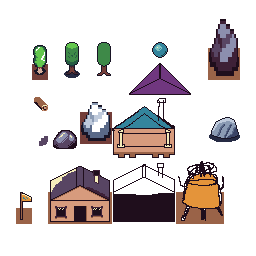
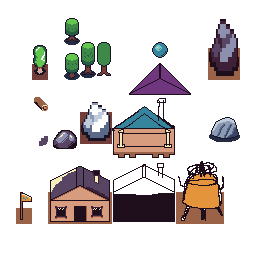
refactor: 建筑系统改为鼠标定位放置, 重构预览逻辑
- BuildingPreview 从方向放置改为鼠标位置放置 (RefreshPosition)
- 移除 ChangeDir() 方向切换方法
- Atk/Interact 时检测物品类型，建筑物品自动进入 Build 状态
- Build 状态中 Interact 改为退出建筑模式，注释 Pre/Next 切换
- Building 场景/脚本中 Sprite/CollisionShape/NaviObstacle 位置偏移归零
- Tree TextureHeight 3→2，更新 AtlasTexture region
- ColorRect 位置修正

Changed region(s): [[0.25, 0.0625, 0.375, 0.3125]]

diff --git a/Scripts/Entities/Players/Player.cs b/Scripts/Entities/Players/Player.cs
@@ -237,14 +237,31 @@ namespace Solo.Scripts.Entities.Players
             //RefreshNearestTarget();//每帧刷新最近的target
             if (Input.IsActionJustPressed("Atk"))
             {
-                //todo : 根据物品, 若是buildingItem, 转到建筑模式
-                ChangeState(PlayerState.Atk);
-                return;
+                //根据物品, 若是buildingItem, 转到建筑模式
+                if (FastBarInventory.ItemInstanceList[CurFastBarIndex] != null && ItemDataManager.Instance.GetItemData(FastBarInventory.ItemInstanceList[CurFastBarIndex].Type).isBuilding)
+                {
+                    ChangeState(PlayerState.Build);
+                    return;
+                }
+                else
+                {
+                    ChangeState(PlayerState.Atk);
+                    return;
+                }
             }
             if (Input.IsActionJustPressed("Interact"))
             {
-                ChangeState(PlayerState.Interact);
-                return;
+                //根据物品, 若是buildingItem, 转到建筑模式
+                if (FastBarInventory.ItemInstanceList[CurFastBarIndex] != null && ItemDataManager.Instance.GetItemData(FastBarInventory.ItemInstanceList[CurFastBarIndex].Type).isBuilding)
+                {
+                    ChangeState(PlayerState.Build);
+                    return;
+                }
+                else
+                {
+                    ChangeState(PlayerState.Interact);
+                    return;
+                }
             }
 
             Vector2 input = Input.GetVector("MoveLeft", "MoveRight", "MoveForward", "MoveBack");
@@ -307,14 +324,29 @@ namespace Solo.Scripts.Entities.Players
             CheckTarget();
             if (Input.IsActionJustPressed("Atk"))
             {
-                //todo : 根据物品, 若是buildingItem, 转到建筑模式
-                ChangeState(PlayerState.Atk);
-                return;
+                if (FastBarInventory.ItemInstanceList[CurFastBarIndex] != null && ItemDataManager.Instance.GetItemData(FastBarInventory.ItemInstanceList[CurFastBarIndex].Type).isBuilding)
+                {
+                    ChangeState(PlayerState.Build);
+                    return;
+                }
+                else
+                {
+                    ChangeState(PlayerState.Atk);
+                    return;
+                }
             }
             if (Input.IsActionJustPressed("Interact"))
             {
-                ChangeState(PlayerState.Interact);
-                return;
+                if (FastBarInventory.ItemInstanceList[CurFastBarIndex] != null && ItemDataManager.Instance.GetItemData(FastBarInventory.ItemInstanceList[CurFastBarIndex].Type).isBuilding)
+                {
+                    ChangeState(PlayerState.Build);
+                    return;
+                }
+                else
+                {
+                    ChangeState(PlayerState.Interact);
+                    return;
+                }
             }
             //RefreshNearestTarget();//每帧刷新最近的target
             //if (Input.IsActionJustPressed("Atk"))
@@ -392,14 +424,29 @@ namespace Solo.Scripts.Entities.Players
             CheckTarget();
             if (Input.IsActionJustPressed("Atk"))
             {
-                //todo : 根据物品, 若是buildingItem, 转到建筑模式
-                ChangeState(PlayerState.Atk);
-                return;
+                if (FastBarInventory.ItemInstanceList[CurFastBarIndex] != null && ItemDataManager.Instance.GetItemData(FastBarInventory.ItemInstanceList[CurFastBarIndex].Type).isBuilding)
+                {
+                    ChangeState(PlayerState.Build);
+                    return;
+                }
+                else
+                {
+                    ChangeState(PlayerState.Atk);
+                    return;
+                }
             }
             if (Input.IsActionJustPressed("Interact"))
             {
-                ChangeState(PlayerState.Interact);
-                return;
+                if (FastBarInventory.ItemInstanceList[CurFastBarIndex] != null && ItemDataManager.Instance.GetItemData(FastBarInventory.ItemInstanceList[CurFastBarIndex].Type).isBuilding)
+                {
+                    ChangeState(PlayerState.Build);
+                    return;
+                }
+                else
+                {
+                    ChangeState(PlayerState.Interact);
+                    return;
+                }
             }
             //RefreshNearestTarget();//每帧刷新最近的target
             //if (Input.IsActionJustPressed("Atk"))
@@ -446,7 +493,7 @@ namespace Solo.Scripts.Entities.Players
         }
         #endregion
 
-        #region dash
+        #region Dash
         private float _dashTimer;
         private float _dashDuration = 0.2f;
         private float _dashSpeed = 200;
@@ -506,7 +553,7 @@ namespace Solo.Scripts.Entities.Players
         }
         #endregion
 
-        #region atk
+        #region Atk
         private void EnterAtk()
         {
             ResetAnim();
@@ -606,7 +653,7 @@ namespace Solo.Scripts.Entities.Players
         }
         #endregion
 
-        #region build
+        #region Build
         [Export] private PackedScene _buildingPreviewPs;
         private BuildingPreview _curBuildingPreview;
         private void EnterBuild()
@@ -621,26 +668,26 @@ namespace Solo.Scripts.Entities.Players
         }
         private void UpdateBuild(float delta)
         {
-            if (Input.IsActionJustPressed("Pre"))
-            {
-                ChangeCurFastBarIndex(false);
-                if (FastBarInventory.ItemInstanceList[CurFastBarIndex] == null || ItemDataManager.Instance.GetItemData(FastBarInventory.ItemInstanceList[CurFastBarIndex].Type).isBuilding == false)
-                {
-                    _curBuildingPreview.QueueFree();
-                    ChangeState(PlayerState.Idle);
-                    return;
-                }
-            }
-            if (Input.IsActionJustPressed("Next"))
-            {
-                ChangeCurFastBarIndex(true);
-                if (FastBarInventory.ItemInstanceList[CurFastBarIndex] == null || ItemDataManager.Instance.GetItemData(FastBarInventory.ItemInstanceList[CurFastBarIndex].Type).isBuilding == false)
-                {
-                    _curBuildingPreview.QueueFree();
-                    ChangeState(PlayerState.Idle);
-                    return;
-                }
-            }
+            //if (Input.IsActionJustPressed("Pre"))
+            //{
+            //    ChangeCurFastBarIndex(false);
+            //    if (FastBarInventory.ItemInstanceList[CurFastBarIndex] == null || ItemDataManager.Instance.GetItemData(FastBarInventory.ItemInstanceList[CurFastBarIndex].Type).isBuilding == false)
+            //    {
+            //        _curBuildingPreview.QueueFree();
+            //        ChangeState(PlayerState.Idle);
+            //        return;
+            //    }
+            //}
+            //if (Input.IsActionJustPressed("Next"))
+            //{
+            //    ChangeCurFastBarIndex(true);
+            //    if (FastBarInventory.ItemInstanceList[CurFastBarIndex] == null || ItemDataManager.Instance.GetItemData(FastBarInventory.ItemInstanceList[CurFastBarIndex].Type).isBuilding == false)
+            //    {
+            //        _curBuildingPreview.QueueFree();
+            //        ChangeState(PlayerState.Idle);
+            //        return;
+            //    }
+            //}
 
             Vector2 input = Input.GetVector("MoveLeft", "MoveRight", "MoveForward", "MoveBack");
             if (input != Vector2.Zero)
@@ -654,7 +701,9 @@ namespace Solo.Scripts.Entities.Players
             else
                 Velocity = input * moveSpeed;
             MoveAndSlide();
-            _curBuildingPreview.Update(GlobalPosition);
+
+            Vector2 mousePos = GetGlobalMousePosition();
+            _curBuildingPreview.RefreshPosition(mousePos);
             if (Input.IsActionJustPressed("Atk"))
             {
                 bool isBuild = _curBuildingPreview.Build();
                if (isBuild)
@@ -670,7 +719,8 @@ namespace Solo.Scripts.Entities.Players
             }
             if (Input.IsActionJustPressed("Interact"))
             {
-                _curBuildingPreview.ChangeDir();
+                ChangeState(PlayerState.Idle);
+                return;
             }
         }
         #endregion

diff --git a/Scripts/System/BuildingSystem/BuildingPreview.cs b/Scripts/System/BuildingSystem/BuildingPreview.cs
@@ -9,7 +9,7 @@ public partial class BuildingPreview : Node2D
     [Export] private PackedScene _buildingPs;
     private Vector2 _curDir = Vector2.Down;
 
-    public void Init(ItemType itemType, Vector2 playerPos)
+    public void Init(ItemType itemType, Vector2 mousePos)
     {
         switch (itemType)
         {
@@ -37,56 +37,21 @@ public partial class BuildingPreview : Node2D
         }
         BuildingData buildingData = BuildingDataManager.Instance.GetBuildingData(Type);
         _sprite.Texture = GD.Load<Texture2D>(buildingData.TexturePath);
-        _sprite.Position = new Vector2(0, -(buildingData.TextureHeight / 2f - buildingData.Height) * 16);
-        Update(playerPos);
+        _sprite.Position = new Vector2(0, -(buildingData.TextureHeight - buildingData.Height) * 16 / 2);
+        RefreshPosition(mousePos);
     }
 
-    //public override void _PhysicsProcess(double delta)
-    //{
-
-    //}
-
-
-    public void Update(Vector2 playerPos)
+    public void RefreshPosition(Vector2 mousePos)
     {
         BuildingData buildingData = BuildingDataManager.Instance.GetBuildingData(Type);
-        Vector2 worldPos = playerPos + new Vector2(_curDir.X * buildingData.Width / 2 * 20, _curDir.Y * buildingData.Height / 2 * 25);
-        Vector2 snapPos = GameManager.Instance.BuildingManager.SnapToCell(Type, worldPos);
+        Vector2 snapPos = GameManager.Instance.BuildingManager.SnapToCell(Type, mousePos);
         bool canPlace = GameManager.Instance.BuildingManager.CanPlaced(Type, snapPos);
         GlobalPosition = snapPos;
         _sprite.Modulate = canPlace ? new Color(0, 1, 0, 0.2f) : new Color(1, 0, 0, 0.2f);
     }
 
-    public void ChangeDir()
-    {
-        if (_curDir == Vector2.Down)
-        {
-            _curDir = Vector2.Left;
-            return;
-        }
-        if (_curDir == Vector2.Left)
-        {
-            _curDir = Vector2.Up;
-            return;
-        }
-        if (_curDir == Vector2.Up)
-        {
-            _curDir = Vector2.Right;
-            return;
-        }
-        if (_curDir == Vector2.Right)
-        {
-            _curDir = Vector2.Down;
-            return;
-        }
-    }
-
     public bool Build()
     {
-        //Vector2 snapPos = GameManager.Instance.BuildingManager.SnapToCell(Type, GlobalPosition);
-        //bool canPlace = GameManager.Instance.BuildingManager.CanPlaced(Type, snapPos);
-        //if (canPlace)
-        //{
         GameManager.Instance.BuildingManager.Place(Type, GlobalPosition);
 
         switch (Type)

diff --git a/Scripts/System/BuildingSystem/Building.cs b/Scripts/System/BuildingSystem/Building.cs
@@ -32,13 +32,13 @@ namespace Solo.Scripts.System.BuildingSystem
             _dropItemList = buildingData.DropItemList;
 
             _sprite.Texture = GD.Load<Texture2D>(buildingData.TexturePath);
-            _sprite.Position = new Vector2(0, -(buildingData.TextureHeight / 2f - buildingData.Height) * 16);
+            _sprite.Position = new Vector2(0, -(buildingData.TextureHeight - buildingData.Height) * 16 / 2);
             if (_collisionShape.Shape is RectangleShape2D rectShape)
             {
                 RectangleShape2D uniqueRectShape = (RectangleShape2D)rectShape.Duplicate();
                 uniqueRectShape.Size = new Vector2(buildingData.Width * 16f, buildingData.Height * 16f); // 赋予新的尺寸
                 _collisionShape.Shape = uniqueRectShape;
-                _collisionShape.Position = new Vector2(0, (buildingData.Height / 2f) * 16);
+                _collisionShape.Position = new Vector2(0, 0);
             }
             if (_naviObstacle != null)
             {
@@ -48,7 +48,7 @@ namespace Solo.Scripts.System.BuildingSystem
                 _naviObstacle.Vertices = obstacleVertices;
                 _naviObstacle.AvoidanceEnabled = true;// 确保避障属性正确开启
                 _naviObstacle.AvoidanceLayers = 1; // 保持和之前 Units 的 AvoidanceMask 一致
-                _naviObstacle.Position = new Vector2(0, (buildingData.Height / 2f) * 16);
+                _naviObstacle.Position = new Vector2(0, 0);
             }
 
 

diff --git a/Scripts/System/BuildingSystem/BuildingDataManager.cs b/Scripts/System/BuildingSystem/BuildingDataManager.cs
@@ -12,7 +12,7 @@ namespace Solo.Scripts.System.BuildingSystem
         private BuildingDataManager()
         {
             _buildingDataMap.Add(BuildingType.Water, new BuildingData() { Width = 1, Height = 1, TextureHeight = 3, TexturePath = "res://Assets/AtlasTextures/Tree.tres", MaxHp = 100, DropItemList = new List<(ItemType, int, int)>() { (ItemType.Wood, 2, 6), } });
-            _buildingDataMap.Add(BuildingType.Tree, new BuildingData() { Width = 1, Height = 1, TextureHeight = 3, TexturePath = "res://Assets/AtlasTextures/Tree.tres", MaxHp = 100, DropItemList = new List<(ItemType, int, int)>() { (ItemType.Wood, 2, 6), } });
+            _buildingDataMap.Add(BuildingType.Tree, new BuildingData() { Width = 1, Height = 1, TextureHeight = 2, TexturePath = "res://Assets/AtlasTextures/Tree.tres", MaxHp = 100, DropItemList = new List<(ItemType, int, int)>() { (ItemType.Wood, 2, 6), } });
             _buildingDataMap.Add(BuildingType.Stone, new BuildingData() { Width = 2, Height = 1, TextureHeight = 2, TexturePath = "res://Assets/AtlasTextures/Stone.tres", MaxHp = 100, DropItemList = new List<(ItemType, int, int)>() { (ItemType.Stone, 1, 3), } });
             _buildingDataMap.Add(BuildingType.MainBase, new BuildingData() { Width = 4, Height = 2, TextureHeight = 4, TexturePath = "res://Assets/AtlasTextures/MainBase.tres", MaxHp = 100, DropItemList = new List<(ItemType, int, int)>() { (ItemType.Stone, 1, 3), } });
         }